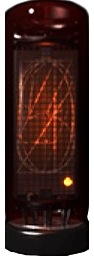
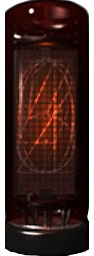
move dot to a separate file

Changed region(s): [[0.6383, 0.6562, 0.8085, 0.75]]

diff --git a/index.html b/index.html
@@ -68,6 +68,18 @@
 				/* for brighter shadow */
 				z-index: 1;
 				transition: opacity 150ms ease;
+				vertical-align: top;
+			}
+			.empty-letter {
+				position: relative;
+				top: 0px;
+				display: inline-block;
+				width: 94px;
+				height: 256px;
+				text-align: center;
+				z-index: 1;
+				transition: opacity 150ms ease;
+				background-image: url(dmeter_dot.png);
 			}
 			
 			#fadeout {
@@ -77,7 +89,7 @@
 				transition: opacity 900ms ease;
 				z-index: 0;
 			}
-			.letter.fd {
+			.letter.fd, .empty-letter.fd {
 				color: #fffa0744;
 				opacity: 0.8;
 			}
@@ -148,17 +160,21 @@
 				var old_lamps = document.getElementsByClassName("letter");
 				
 				for (i=0, sz=old_lamps.length; i<lamps && i<sz; i++) {
-					fadeout += "<div class=\"fd letter\">";
-					if (typeof old_lamps[i] !== 'undefined' && old_lamps[i].innerHTML[0] != text[i])
+          if(old_lamps[i].innerHTML !== '')
+            fadeout += "<div class=\"fd letter\">";
+          else {
+            fadeout += "<div class=\"fd empty-letter\">";
+            old_lamps[i].innerHTML = '.';
+          }
+					if (old_lamps[i] !== undefined && old_lamps[i].innerHTML[0] != text[i])
 						fadeout += old_lamps[i].innerHTML[0];
 					fadeout += "</div>";
 				}
 
 				for (i=0; i<lamps; i++) {
-					//if (typeof old_lamps[i] !== 'undefined' && old_lamps[i].innerHTML[0] != text[i])
-					//	out += "<div class=\"letter new\">"+text[i]+"</div>";
-					//else
-					out += "<div class=\"letter an\">"+text[i]+"</div>";
+          if (text[i] === '.')
+            out += `<div class="empty-letter an"></div>`;
+					else out += `<div class="letter an">${text[i]}</div>`;
 				}
 				
 				
